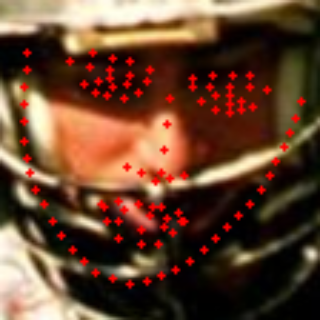
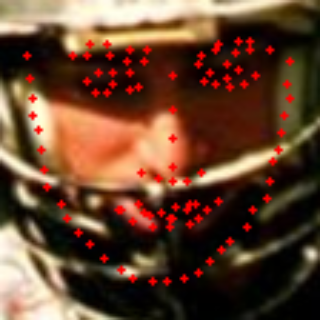
updated 2022.06.21

diff --git a/source/facial_landmark/inference.py b/source/facial_landmark/inference.py
@@ -1,0 +1,75 @@
+import os
+import cv2
+import numpy as np
+import tensorflow as tf
+
+from glob import glob
+from model import PFLDInference
+
+os.environ['TF_CPP_MIN_LOG_LEVEL'] = '3'
+gpus = tf.config.experimental.list_physical_devices('GPU')
+if len(gpus) > 1:
+    try:
+        print("Activate Multi GPU")
+        for gpu in gpus:
+            tf.config.experimental.set_memory_growth(gpu, True)
+        strategy = tf.distribute.MirroredStrategy(cross_device_ops=tf.distribute.HierarchicalCopyAllReduce())
+    except RuntimeError as e:
+        print(e)
+
+else:
+    try:
+        print("Activate Sigle GPU")
+        tf.config.experimental.set_memory_growth(gpus[0], True)
+        strategy = tf.distribute.experimental.CentralStorageStrategy()
+    except RuntimeError as e:
+        print(e)
+
+
+def get_overlay(index, image, landmarks):
+    image = np.array(image).astype(np.uint8)
+
+    for (x, y) in landmarks:
+        cv2.circle(image, (int(x), int(y)), radius=1, color=(0, 0, 255), thickness=-1)
+
+    return image
+
+
+def inference(video_capture_index):
+    capture = cv2.VideoCapture(video_capture_index)
+    
+    while cv2.waitKey(33) != ord('q'):
+        ret, frame = capture.read()
+        frame = cv2.resize(frame, (512, 512))
+        height, width = frame.shape[:2]
+
+        image = cv2.resize(frame, (input_shape[0], input_shape[1]))
+        image = cv2.cvtColor(image, cv2.COLOR_BGR2RGB)
+        image = image / 255.0
+        image = np.expand_dims(image, axis=0)
+
+        prediction = model.predict(image)
+        pred_landmarks = prediction * input_shape[0]
+        pred_landmarks[0::2] = pred_landmarks[0::2] * width / input_shape[0]
+        pred_landmarks[1::2] = pred_landmarks[1::2] * height / input_shape[0]
+        pred_landmarks = pred_landmarks.reshape(-1, 2)
+
+        result_image = get_overlay(index=0, image=frame, landmarks=pred_landmarks)
+        cv2.imshow("result", result_image)
+
+    capture.release()
+    cv2.destroyAllWindows()
+
+
+def model_load(model_path):
+    model = PFLDInference(inputs=input_shape, is_train=False)
+    model.load_weights(model_path, by_name=True)
+
+    return model
+
+if __name__ == "__main__":
+    input_shape = [112, 112, 3]
+    ckpt_path = "/data/Models/facial_landmark/best.h5"
+    
+    model = model_load(ckpt_path)
+    inference("/data/Datasets/WFLW/inference_data/test01.mp4") # or -1

diff --git a/source/facial_landmark/train.py b/source/facial_landmark/train.py
@@ -81,14 +81,14 @@ if __name__ == "__main__":
     batch_size = 256
     epochs = 1000
     model_path = ''
-    input_shape = [112,112,3]
+    input_shape = [112, 112, 3]
     lr=1e-3
     
     train_datasets = PFLDDatasets('/data/Datasets/WFLW/train_data/list.txt', batch_size)
     valid_datasets = PFLDDatasets('/data/Datasets/WFLW/test_data/list.txt', batch_size)
     
     callback = [DisplayCallback(),
-                tf.keras.callbacks.ModelCheckpoint("/data/Models/facial_landmark/best.ckpt", monitor="val_loss", verbose=1, save_best_only=True, save_weights_only=True)]
+                tf.keras.callbacks.ModelCheckpoint("/data/Models/facial_landmark/best.h5", monitor="val_loss", verbose=1, save_best_only=True, save_weights_only=True)]
 
     with strategy.scope():
         model = PFLDInference(input_shape, is_train=True)
